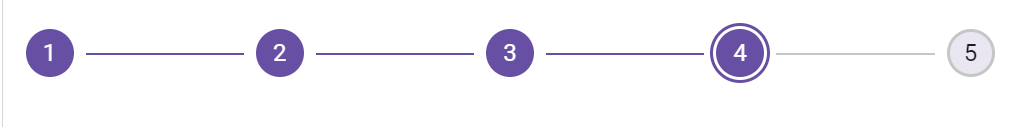
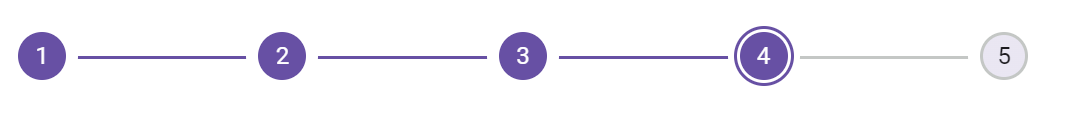
861463: image and theme updated.

Changed region(s): [[0.0, 0.1736, 1.0, 0.719]]

diff --git a/ej2-asp-core-mvc/stepper/EJ2_ASP.NETCORE/getting-started.md b/ej2-asp-core-mvc/stepper/EJ2_ASP.NETCORE/getting-started.md
@@ -57,7 +57,7 @@ Here, the theme and script is referred using CDN inside the `<head>` of `~/Pages
 <head>
     ...
     <!-- Syncfusion ASP.NET Core controls styles -->
-    <link rel="stylesheet" href="https://cdn.syncfusion.com/ej2/{{ site.ej2version }}/fluent.css" />
+    <link rel="stylesheet" href="https://cdn.syncfusion.com/ej2/{{ site.ej2version }}/material3.css" />
     <!-- Syncfusion ASP.NET Core controls scripts -->
     <script src="https://cdn.syncfusion.com/ej2/{{ site.ej2version }}/dist/ej2.min.js"></script>
 </head>
@@ -111,9 +111,9 @@ Press <kbd>Ctrl</kbd>+<kbd>F5</kbd> (Windows) or <kbd>⌘</kbd>+<kbd>F5</kbd> (m
 
 ![ASP.NET Core Stepper Control](images/stepper-control.png)
 
-## Configure Icon and Label
+## Configure icon and label
 
-You can set the `iconCss` and `label` by using the `e-stepper-step` tag helper.
+You can define the step icon and label by setting the `iconCss` and `label` properties using `e-stepper-step` tag helper.
 
 {% tabs %}
 {% highlight cshtml tabtitle="CSHTML" %}

diff --git a/ej2-asp-core-mvc/stepper/EJ2_ASP.MVC/getting-started.md b/ej2-asp-core-mvc/stepper/EJ2_ASP.MVC/getting-started.md
@@ -59,7 +59,7 @@ Here, the theme and script is referred using CDN inside the `<head>` of `~/Pages
 <head>
     ...
     <!-- Syncfusion ASP.NET MVC controls styles -->
-    <link rel="stylesheet" href="https://cdn.syncfusion.com/ej2/{{ site.ej2version }}/fluent.css" />
+    <link rel="stylesheet" href="https://cdn.syncfusion.com/ej2/{{ site.ej2version }}/material3.css" />
     <!-- Syncfusion ASP.NET MVC controls scripts -->
     <script src="https://cdn.syncfusion.com/ej2/{{ site.ej2version }}/dist/ej2.min.js"></script>
 </head>
@@ -114,9 +114,9 @@ Press <kbd>Ctrl</kbd>+<kbd>F5</kbd> (Windows) or <kbd>⌘</kbd>+<kbd>F5</kbd> (m
 
 ![ASP.NET MVC Stepper Control](images/stepper-control.png)
 
-## Configure Icon and Label
+## Configure icon and label
 
-You can set the `IconCss` and `Label` by using the `Steps` property.
+You can define the step icon and label by setting the `IconCss` and `Label` properties using `Steps` property.
 
 {% tabs %}
 {% highlight razor tabtitle="CSHTML" %}
